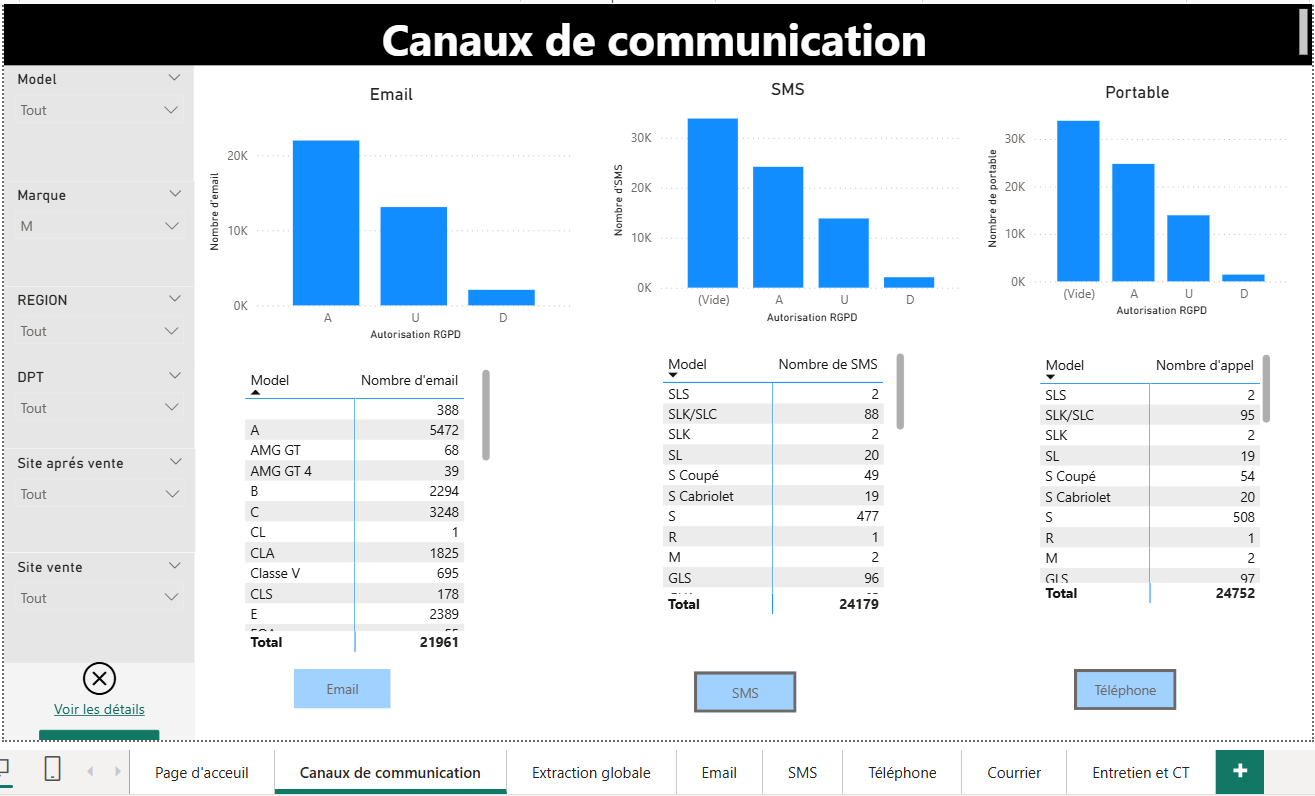
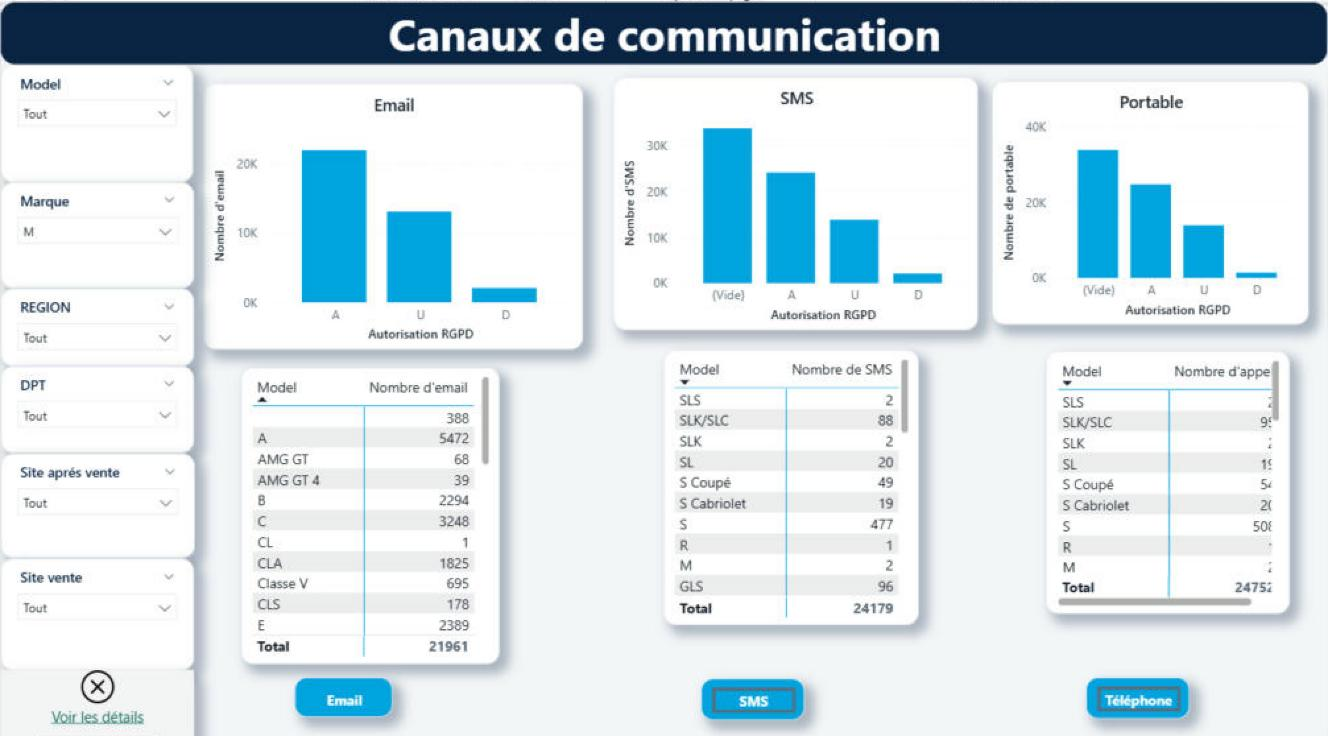
Analyse marketing : captures du rapport redessiné, recadrées et floutées
Claude-Session: https://claude.ai/code/session_0145nwQdNq7HycFCDg4aixcg

diff --git a/projets/analyse-marketing/README.md b/projets/analyse-marketing/README.md
@@ -40,39 +40,43 @@ Comment analyser et fiabiliser les populations clients et véhicules disponibles
 
 ## Aperçu du dashboard
 
-> Les données détaillées ont été floutées pour respecter la confidentialité. Les indicateurs globaux restent visibles afin d’illustrer la démarche d’analyse.
+> Les données nominatives (noms, adresses, téléphones, immatriculations) ont été floutées. Les indicateurs globaux restent visibles.
 
-### Vue d'accueil
+### Vue d’accueil
 
-![Dashboard marketing](images/dashboard-marketing-accueil.png)
+Volumes de véhicules, clients, sociétés et contacts disponibles par canal, répartis par modèle, département et site.
+
+![Accueil](images/dashboard-accueil.png)
 
 ### Canaux de communication
+
+Contacts exploitables par canal selon l’autorisation RGPD, avec le détail par modèle et des boutons vers chaque extraction.
 
 ![Canaux de communication](images/dashboard-canaux-communication.png)
 
 ### Extraction globale
 
-![Extraction globale](images/dashboard-extraction-globale-floute.png)
+![Extraction globale](images/dashboard-extraction-globale.png)
 
 ### Extraction Email
 
-![Email](images/dashboard-email-floute.png)
+![Email](images/dashboard-email.png)
 
 ### Extraction SMS
 
-![SMS](images/dashboard-sms-floute.png)
+![SMS](images/dashboard-sms.png)
 
 ### Extraction Téléphone
 
-![Téléphone](images/dashboard-telephone-floute.png)
+![Téléphone](images/dashboard-telephone.png)
 
 ### Extraction Courrier
 
-![Courrier](images/dashboard-courrier-floute.png)
+![Courrier](images/dashboard-courrier.png)
 
-### Suivi entretien et contrôle technique
+### Suivi des prochains entretiens et contrôles techniques
 
-![Entretien et contrôle technique](images/dashboard-entretien-ct-floute.png)
+![Entretien et contrôle technique](images/dashboard-entretien-ct.png)
 
 ## Compétences utilisées
 
